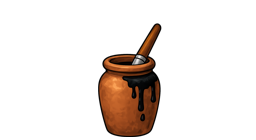
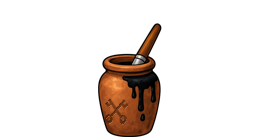
Authoring.

Changed region(s): [[0.4062, 0.7143, 0.5, 0.8857]]

diff --git a/public/levels/04_inefficient_court.md b/public/levels/04_inefficient_court.md
@@ -1,7 +1,7 @@
 # General
 
 * title=The Inefficient Court
-* activeCharacter=Toro
+* activeCharacter=King Frederick
 * time=8:00:00
 * background=daySky.png
 * imports=items.md | characters.md
@@ -12,7 +12,7 @@
 .GGGG..........
 JGGGGFCCCBBB...
 JIIIIFEDHBBBAAA
-JMMNNFLDKKKKAAA
+MMMNNFLDKKKKAAA
 ```
 
 * A=East Gate
@@ -97,22 +97,31 @@ JMMNNFLDKKKKAAA
 ## West Stairwell
 
 * title=
-* obscured=true
+// * obscured=true
+
+```
+....
+.A..
+....
+```
+
+* A=Sticky Agatha
 
 ## Throne Room
 
 * exits=West Stairwell
-* obscured=true
 
 ```
-...A.........U..
+...H.....A..G...
 ..............t.
-................
+............U...
 ```
 
 * t=Throne|King Frederick
 * U=Ugolino
+* G=Gualtiero
 * A=Amos
+* H=Small Rug|Harold
 
 ## Usher's Office
 
@@ -129,7 +138,7 @@ CR..
 
 ## Antechamber
 
-* obscured=true
+//* obscured=true
 * exits=West Stairwell | East Stairwell
 
 ```
@@ -162,11 +171,19 @@ N1234567890ABCD.
 ## Deep Archives
 * exits=Lower Stairwell (locked)
 
+```
+..............b.
+................
+................
+```
+
+* b=Black Brick
+
 ## Tapestry Store
 * exits=Lower Stairwell (locked)
 
 ## Withdrawal Chamber
-* exits=West Stairwell (closed)
+* exits=Robing Chamber (closed)
 
 ## Robing Chamber
 * exits=East Stairwell (closed)
@@ -266,7 +283,6 @@ N1234567890ABCD.
 
 ## Sticky Agatha
 * isTitleKnown=true
-* facing=left
 
 ## Toro
 * description=Toro has a bad limp and a bad mood.
@@ -274,7 +290,12 @@ N1234567890ABCD.
 * items=Black Paint Jar
 
 ## Ugolino
+* description=The Archbishop in the court of King Frederick, far from the Lateran Palace.
 * isTitleKnown=true
+* facing=left
+
+## Gualtiero
+* facing=left
 
 # Items
 
@@ -320,7 +341,7 @@ N1234567890ABCD.
 : Andronikos says, "Concerning?"
 : Toro says, "TREACHERY!"
 : Andronikos says, "Calm yourself."
-: Toro says, "Treachery! (whispers loudly)"
+: Toro says, "(whispers loudly) Treachery!"
 : Andronikos says, "Just go up the stairs and wait."
 : Toro says, "Gratitude."
 (Toro leaves for Central Hall)
@@ -330,6 +351,36 @@ N1234567890ABCD.
 : faces Guard 3
 : says "He is the size of two men at least."
 : says "So we'll admit no more for now."
+
+(Sticky Agatha begins in West Stairwell. The West Stairwell is connected to the Antechamber where a line of people are.)
+8:00:05 Sticky Agatha @ Throne Room.20%
+: Harold faces Sticky Agatha
+: says, "(whispers) What is your name?"
+: Sticky Agatha says, "Sticky Agatha."
+: Harold faces King Frederick
+: says, "Agatha of Stickiness, seeking audience with His Majesty."
+: waits
+: says, "Approach and speak."
+: Sticky Agatha @ 50%
+: says "Your Highness,"
+: says "I am the mother of your friend, Heinrich."
+: says "I wish to open a business in Palermo, washing clothes."
+: Gualtiero says, "No permission from this court is required."
+: says, "Merely register and pay your taxes."
+: Sticky Agatha says, "I offer the King an opportunity..."
+: says, "To invest!"
+: Gualtiero says, "Oh, you want money!"
+: says "So you came here like a street beggar."
+: Sticky Agatha says, "I thought perhaps the King's friendship with my son-"
+: King Frederick says, "If Heinrich needs for anything, he may ask me himself."
+: King Frederick says, "But your request is denied." 
+: Gualtiero says, "And why are you so sticky?"
+: says, "No sticky woman should clean clothing!"
+: Sticky Agatha says, "(weeps)"
+: King Frederick says, "Chamberlain, your comments lack grace."
+: Gualtiero says, "Forgive my excesses, your Majesty."
+: Sticky Agatha @ East Gate.95%
+: hide Sticky Agatha
 
 8:00:30 Toro @ Central Hall.90%
 : waits 8
@@ -437,16 +488,13 @@ N1234567890ABCD.
 : P24 says "(coughing)"
 : P22 says "Ghastly!"
 : P18 says "I can come back tomorrow."
-(As the crowd clears out, Toro presses forward in line.)
-8:01:34 Toro @ 10%
-8:01:43 Toro @ 10%
 : P21 thinks "It is more than I can endure."
-8:01:56 Toro @ 10%
+8:01:56 Toro @ 30%
 : Guard 4 says, "You have thoroughly befouled this place."
 : says, "But I don't mind less people in here."
 
 8:02:03 P1 @ Antechamber.95%
-: P1 says, "Has some animal died here?"
+: P1 says, "Has some animal died?"
 : Guard 4 says, "You may wait for audience in this room."
 : P1 says, "I... uh..."
 : Guard 4 says, "Or you may return to the central hall."
@@ -457,6 +505,41 @@ N1234567890ABCD.
 : P1 says, "I do not know."
 : says "But I want no part of it."
 : faces left
+
+8:01:12 Harold @ West Stairwell
+: says "Next!"
+: @ Throne Room.10%
+: stands on Small Rug
+
+8:01:18 Niccolo @ Throne Room.20%
+: Harold faces Niccolo
+: says, "(whispers) Your name?"
+: Niccolo says, "Niccolò il Calabrese."
+: Harold faces King Frederick
+: says, "Niccolò il Calabrese, seeking audience with His Majesty."
+: waits
+: says, "Approach and speak."
+: Niccolo @ 50%
+: says, "Many quarries sell cheap rocks."
+: says, "Bad rocks filled with moisture and cracks."
+: says, "If the Kingdom is to have strong structures,"
+: says, "We must demand quality in our supplies."
+: King Frederick says, "Then demand it. How is this my matter?"
+: Niccolo says, "Jobs are given to whoever bids lowest."
+: says, "But if we had some agreed standard--"
+: King Frederick says, "I am familiar with the threat of shoddy masonry."
+: says, "And also how a promise of protection..."
+: says, "may come from the instigator himself."
+: says, "I will not be involved with your scheme."
+: waits
+: Niccolo @ East Gate.95%
+: hide Niccolo
+8:02:12 Gualtiero faces King Frederick
+: says, "I share your outrage, Highness!"
+: King Frederick says, "You need not provide your every opinion."
+: Gualtiero says, "Ah, I share your opinion of my opinions, Highness."
+: King Frederick says, "(sighs)"
+: Gualtiero faces left.
 
 (Andronikos is in the Entrance Hall, a stream of petitioners are exiting)
 8:01:29 Andronikos faces left
@@ -523,16 +606,84 @@ N1234567890ABCD.
 8:02:13 @ 95%
 : hide P21
 
-8:02:24 Andronikos @ Antechamber.90%
+8:02:23 Harold @ West Stairwell
+: interrupts "Next... hey!"
+: @ Throne Room.10%
+: stands on Small Rug
+
+8:02:25 Andronikos @ Antechamber.90%
 : Andronikos says, "Ohhhh."
 : waits
 (Andronikos returns to Entrance Hall)
 
-8:02:35 Andronikos @ Entrance Hall.50%
+8:02:24 Toro @ Throne Room.20%
+: Toro interrupts, "Toro."
+: King Frederick says, "Approach and speak, Toro."
+: Harold thinks, "It's like they don't even need a herald!"
+: Toro @ 50%
+: says, "Pillar. Tower. Palace. Pope."
+: says, "Treachery. Brick. Lies!"
+: Gualtiero says, "Speak clearly, imbecile!"
+: King Frederick says, "Toro, the matter interests me."
+: says, "But I do not yet understand."
+: Toro takes Black Paint Jar in right hand.
+: King Frederick @ 55%
+: Toro says "Paint."
+: Toro gives Black Paint Jar to King Frederick
+: King Frederick takes Black Paint Jar in right hand.
+: @ 70%
+: says, "Interesting."
+: faces Harold
+: says, "Herald, fetch the Black Brick."
+: Harold says, "Right away, your Majesty."
+(Harold leaves for Deep Archives)
+: King Frederick waits
+: faces right
+: says, "While we wait, I will speak on another matter."
+: says, "Our petitioning process is a failure."
+: Gualtiero says, "Most certainly it is!"
+: King Frederick says, "In what exact way, Chamberlain?"
+: Gualtiero says, "Oh, uh... I..."
+: says, "Hope to hear your thoughts on the subject first."
+: King Frederick says, "Nearly all of them seek some gift or mercy from me."
+: says, "The World has more complaints than I can hear!"
+: Ugolino says, "The Church can hear them, Majesty."
+: King Frederick says, "Yes, let God receive their prayers - not I."
+: Gualtiero says, "Such insight, Majesty."
+: King Frederick faces left
+
+8:02:36 Andronikos @ Entrance Hall.50%
 : faces Guard 3
 : says, "People complain about drafty castles."
 : says, "But today, I wish for ours to be draftier."
 : faces right
+
+8:03:15 Harold @ Deep Archives.95%
+: takes Black Brick in right hand
+: thinks "Heralding is what I do - not fetching!"
+: thinks "My mother named me for this destiny."
+
+
+8:03:46 Harold @ Throne Room.65%
+: King Frederick faces left
+: Harold gives Black Brick to King Frederick
+: King Frederick takes Black Brick in left hand
+: Harold stands on small rug
+: King Frederick says "Hmm."
+: says, "The paint matches."
+: Ugolino says, "The jar is from the Lateran Palace."
+: says, "Our jar mold bestows this symbol."
+: Gualtiero says, "But what does it prove?"
+: King Frederick says, "A better question perhaps is..."
+: says, "What does it disprove?"
+: says, "Toro, you have done a service to the Crown."
+: says, "Is there anything you want?"
+: Toro says, "Job."
+: King Frederick says, "What job can you do?"
+: Toro says, "Herald."
+: Harold faces right.
+: says, "What?"
+: King Frederick says, "Granted. You are my new herald."
 
 # Conclusions
 

diff --git a/public/levels/items.md b/public/levels/items.md
@@ -12,9 +12,13 @@
 * image=bigWineskin.png
 * description=A massive skin filled with gallons of wine.
 
+## Black Brick
+* image=blackBrick.png
+* description=A limestone brick, painted black, inscribed with careful lettering, "Constantine, 3 May 1195, Sext".
+
 ## Black Paint Jar
 * image=blackPaintJar.png
-* description=A clay jar with a paintbrush and some black paint inside of it.
+* description=A clay jar with a paintbrush and some black paint inside of it. There is a key-shaped symbol impressed on its surface.
 
 ## Bread Roll
 * image=breadRoll.png
@@ -69,6 +73,9 @@
 ## Small Hourglass
 * description=A small hourglass capable of measuring about half a minute's time.
 * image=smallHourglass.png
+
+## Small Rug
+* image=smallRug.png
 
 ## Throne
 * image=throneLeft.png

diff --git a/public/levels/characters.md b/public/levels/characters.md
@@ -94,11 +94,28 @@ ethnicityBackground=Greek Sicilian
 * description=A man in his 30s, with extremely strong arms and less-impressive legs.
 * faceImage=giovanni.png
 
-## Heinrich
+## Gualtiero
+* title=Gualtiero of Masala
+* description=He seems like the sort of person that whispers in ears a lot. And winks - definitely a winker.
+* faceImage=gualtiero.png
 
+ETHNICITY: Norman-Sicilian
+OCCUPATION: Chamberlain and Royal Advisor
+AGE=58
+
+## Heinrich
 * title=Heinrich Sohn des Konrad
 * description=An 11-year-old boy.
 * faceImage=heinrich.png
+
+## Harold
+* title=Harold of Norwich
+* description=His garb indicates some lower court function.
+* faceImage=harold.png
+
+ETHNICITY: English
+OCCUPATION: Herald
+AGE: 45
 
 ## Helena
 
